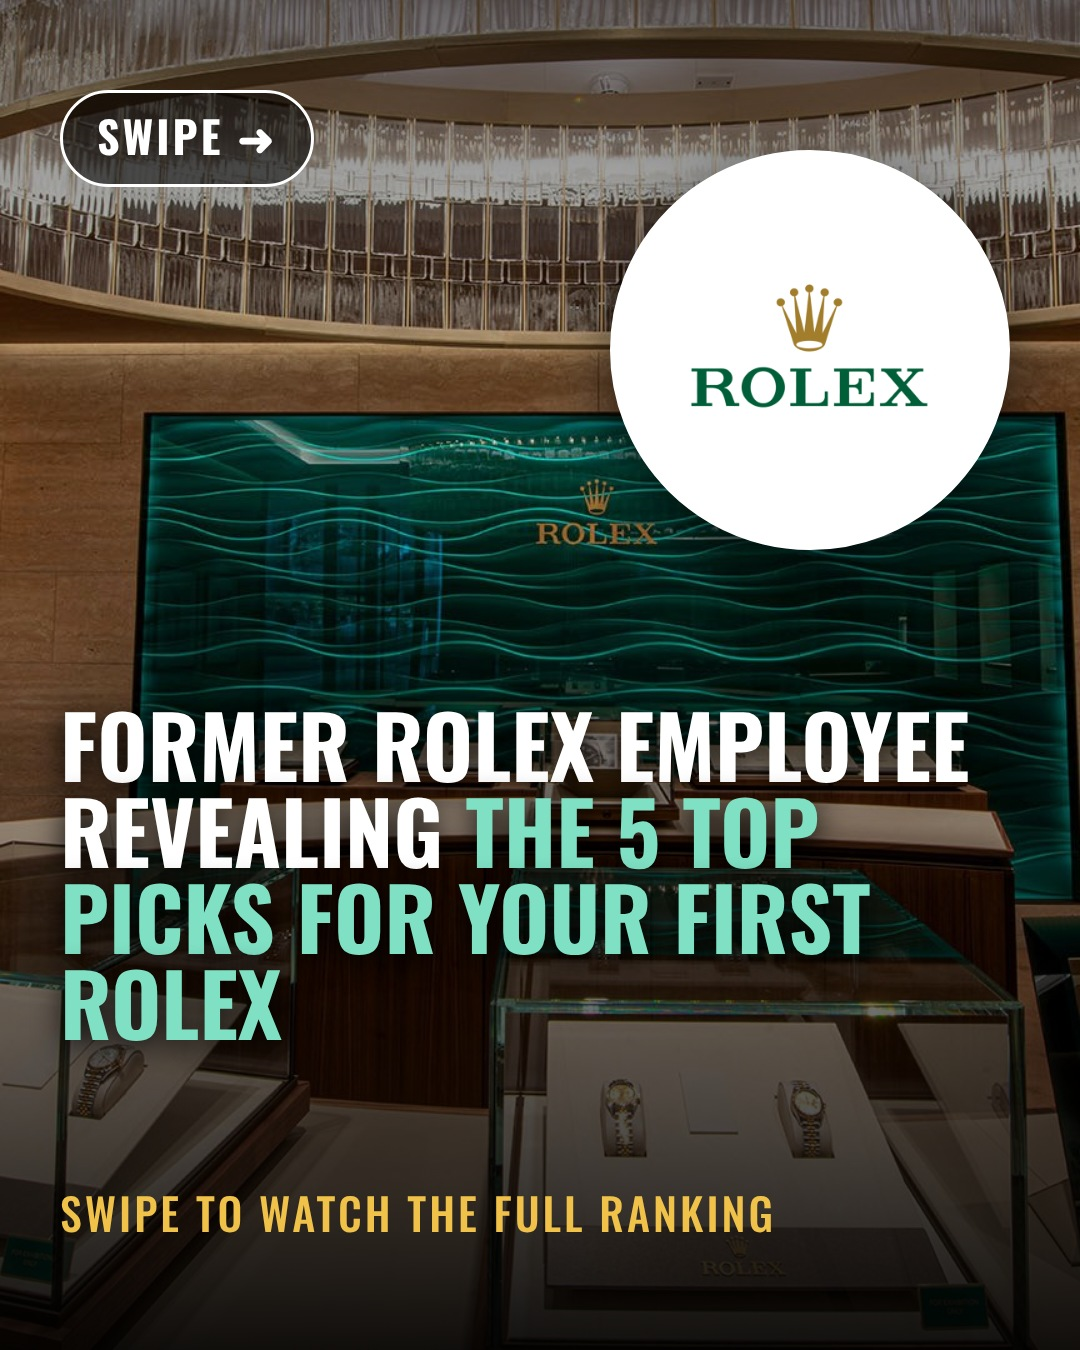
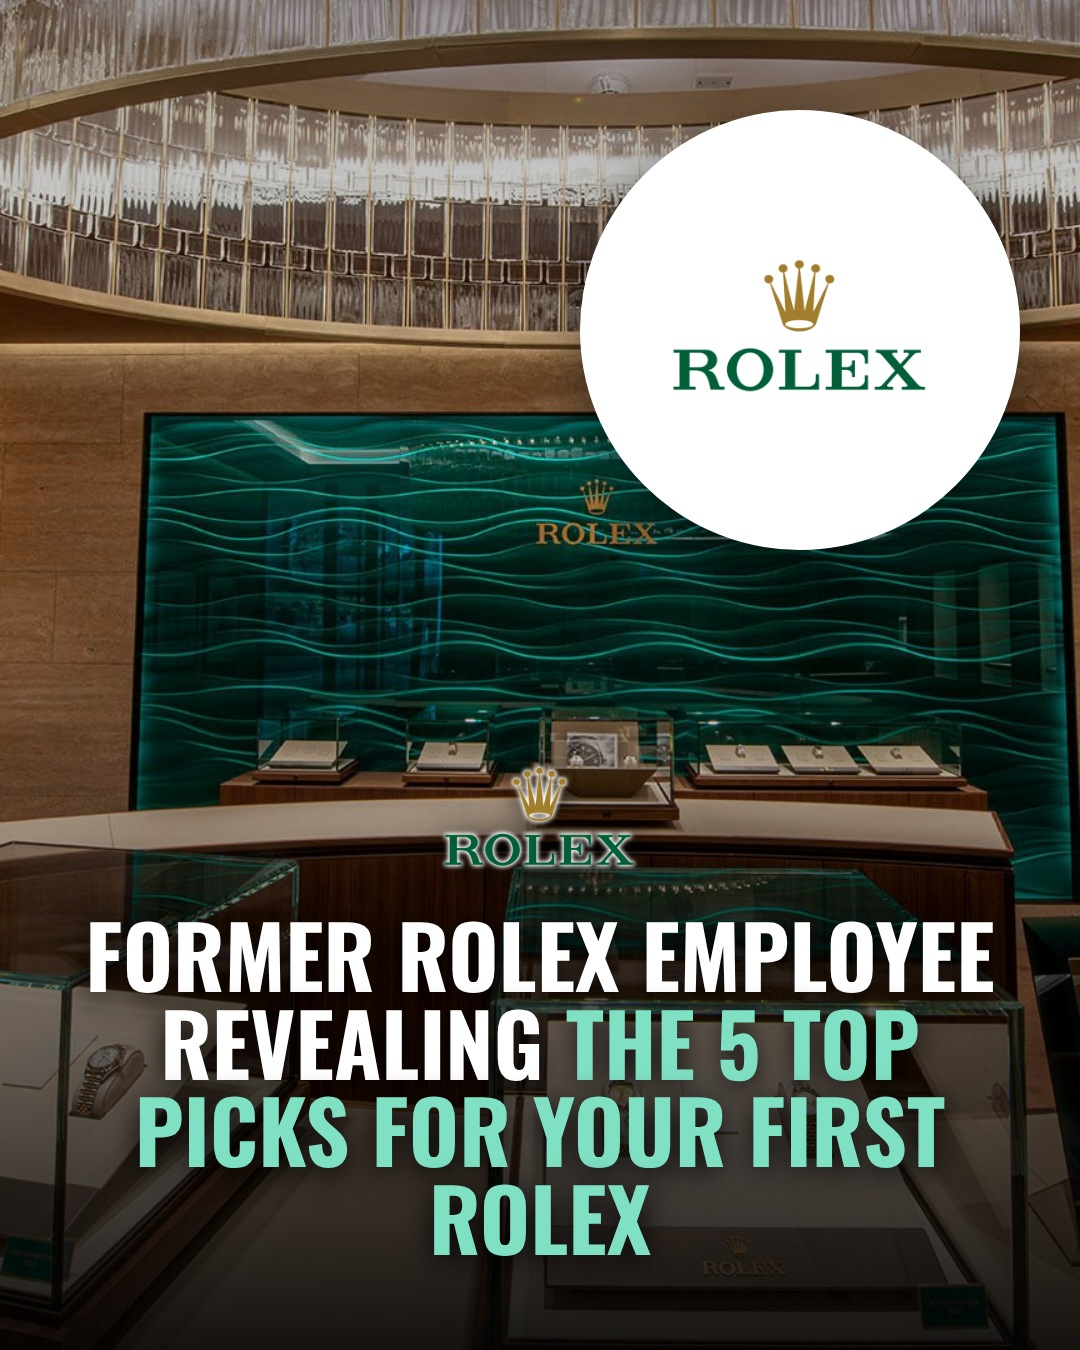
Post cover: exact copy of owner's example, no extra elements
Claude-Session: https://claude.ai/code/session_0196sG434LsFacRR9je27wED

diff --git a/reels/MUST_DO_SWIPE_POST_COVERS.md b/reels/MUST_DO_SWIPE_POST_COVERS.md
@@ -1,7 +1,9 @@
 # STRICT OWNER ORDER (Nov 22): SWIPE-STYLE POST COVERS FOR EVERY VIDEO
 For each video the owner posts, make a POST COVER picture first, in the style of the aviationtrack example he showed:
 - SIZE: 4:5 post size, 1080 x 1350 (NOT the 9:16 reel cover). Posted as a carousel: slide 1 = this picture, slide 2 = the video.
-- Layout: store/boutique background photo, round Rolex logo (or relevant logo) at top right, a "SWIPE ->" pill top left, a BIG catchy hook title at the bottom, a small gold line under it.
+- Layout: store/boutique background photo, round Rolex logo (or relevant logo) at top right, a BIG catchy hook title at the bottom, a small gold line under it.
 - HOOK TITLE style: "FORMER ROLEX EMPLOYEE REVEALING THE 5 TOP PICKS FOR YOUR FIRST ROLEX" / "FORMER ROLEX EMPLOYEE RANKING ROLEX AVAILABILITY". The hook makes people open and swipe to the video.
 - Safe-zone check still applies (see MUST_DO_INSTAGRAM_CROP.md). No faces unless he asks.
 - Do this for the other videos too, without being asked again. Example file: reels/drafts/r5_top5_first_rolex/post_cover_swipe_4x5.jpg
+
+- STRICT (Nov 22): copy the owner's example EXACTLY. Add NOTHING of my own: no SWIPE pill, no extra lines, no extra text. Only: background, round logo top right, small logo above the title, and his title words.
